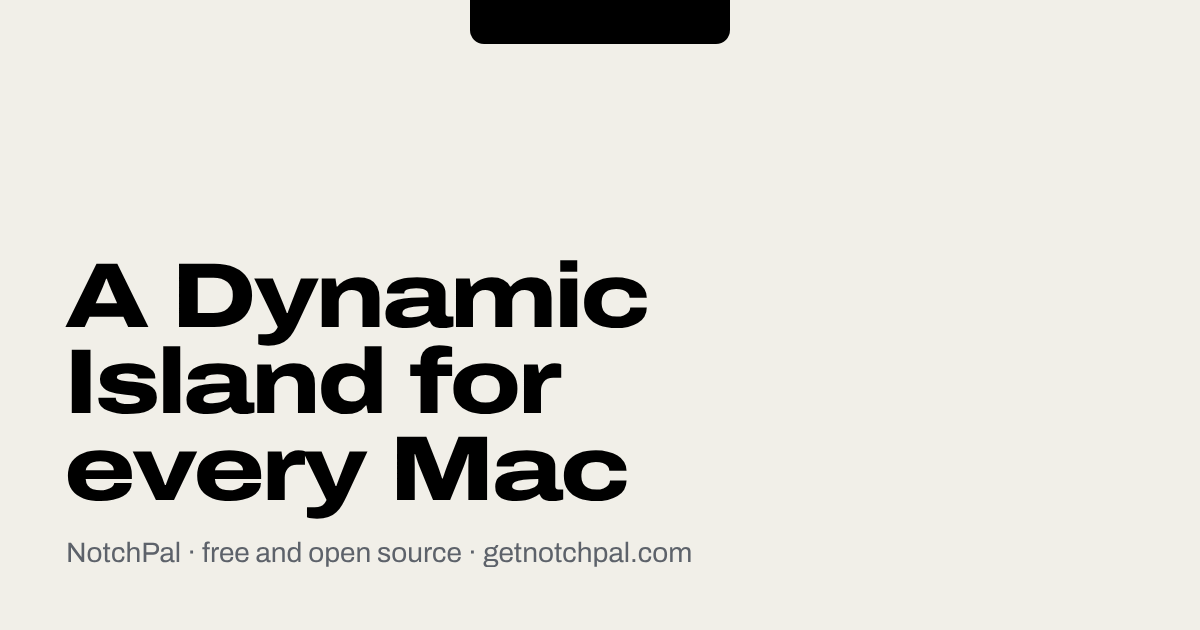
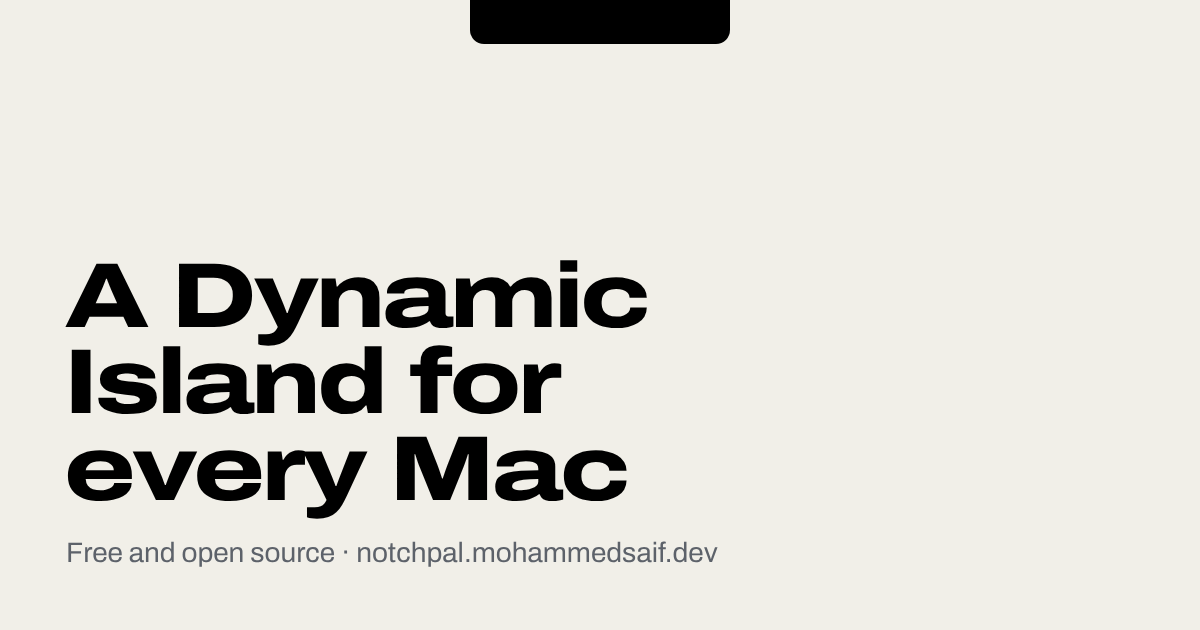
Website: move to notchpal.mohammedsaif.dev
Canonical links, sitemap, robots, share image and structured data now use
the new address.

Claude-Session: https://claude.ai/code/session_01XCig13avzxDEaempdaXqfQ

Changed region(s): [[0.0617, 0.8444, 0.5858, 0.9048]]

diff --git a/website/index.html b/website/index.html
@@ -5,15 +5,15 @@
   <meta name="viewport" content="width=device-width, initial-scale=1, viewport-fit=cover">
   <title>NotchPal: a free Dynamic Island for every Mac</title>
   <meta name="description" content="NotchPal turns your MacBook's notch into a Dynamic Island like the new MacBook Pro's: search, Apple Intelligence, Live Activities and music in the notch. Free and open source for macOS 14 and later.">
-  <link rel="canonical" href="https://getnotchpal.com/">
+  <link rel="canonical" href="https://notchpal.mohammedsaif.dev/">
   <meta name="theme-color" content="#f1efe8">
   <link rel="icon" href="favicon.svg" type="image/svg+xml">
   <meta property="og:type" content="website">
   <meta property="og:site_name" content="NotchPal">
-  <meta property="og:url" content="https://getnotchpal.com/">
+  <meta property="og:url" content="https://notchpal.mohammedsaif.dev/">
   <meta property="og:title" content="NotchPal: a free Dynamic Island for every Mac">
   <meta property="og:description" content="Search, Apple Intelligence, Live Activities and music in your MacBook's notch. Free and open source.">
-  <meta property="og:image" content="https://getnotchpal.com/img/share.png">
+  <meta property="og:image" content="https://notchpal.mohammedsaif.dev/img/share.png">
   <meta property="og:image:width" content="1200">
   <meta property="og:image:height" content="630">
   <meta property="og:image:alt" content="NotchPal: a Dynamic Island for every Mac, with the island floating below a MacBook notch">
@@ -24,8 +24,8 @@
     "@type": "SoftwareApplication",
     "name": "NotchPal",
     "description": "NotchPal turns a MacBook's notch into a Dynamic Island with search, Apple Intelligence, Live Activities and music.",
-    "url": "https://getnotchpal.com/",
-    "image": "https://getnotchpal.com/img/share.png",
+    "url": "https://notchpal.mohammedsaif.dev/",
+    "image": "https://notchpal.mohammedsaif.dev/img/share.png",
     "applicationCategory": "UtilitiesApplication",
     "operatingSystem": "macOS 14 or later",
     "softwareVersion": "0.7.1",

diff --git a/website/privacy.html b/website/privacy.html
@@ -5,7 +5,7 @@
   <meta name="viewport" content="width=device-width, initial-scale=1">
   <title>Privacy · NotchPal</title>
   <meta name="description" content="NotchPal collects nothing: no account, no tracking and no ads. What the app and this website do and don't do with your data.">
-  <link rel="canonical" href="https://getnotchpal.com/privacy.html">
+  <link rel="canonical" href="https://notchpal.mohammedsaif.dev/privacy.html">
   <link rel="icon" href="favicon.svg" type="image/svg+xml">
   <link rel="stylesheet" href="styles.css">
 </head>
